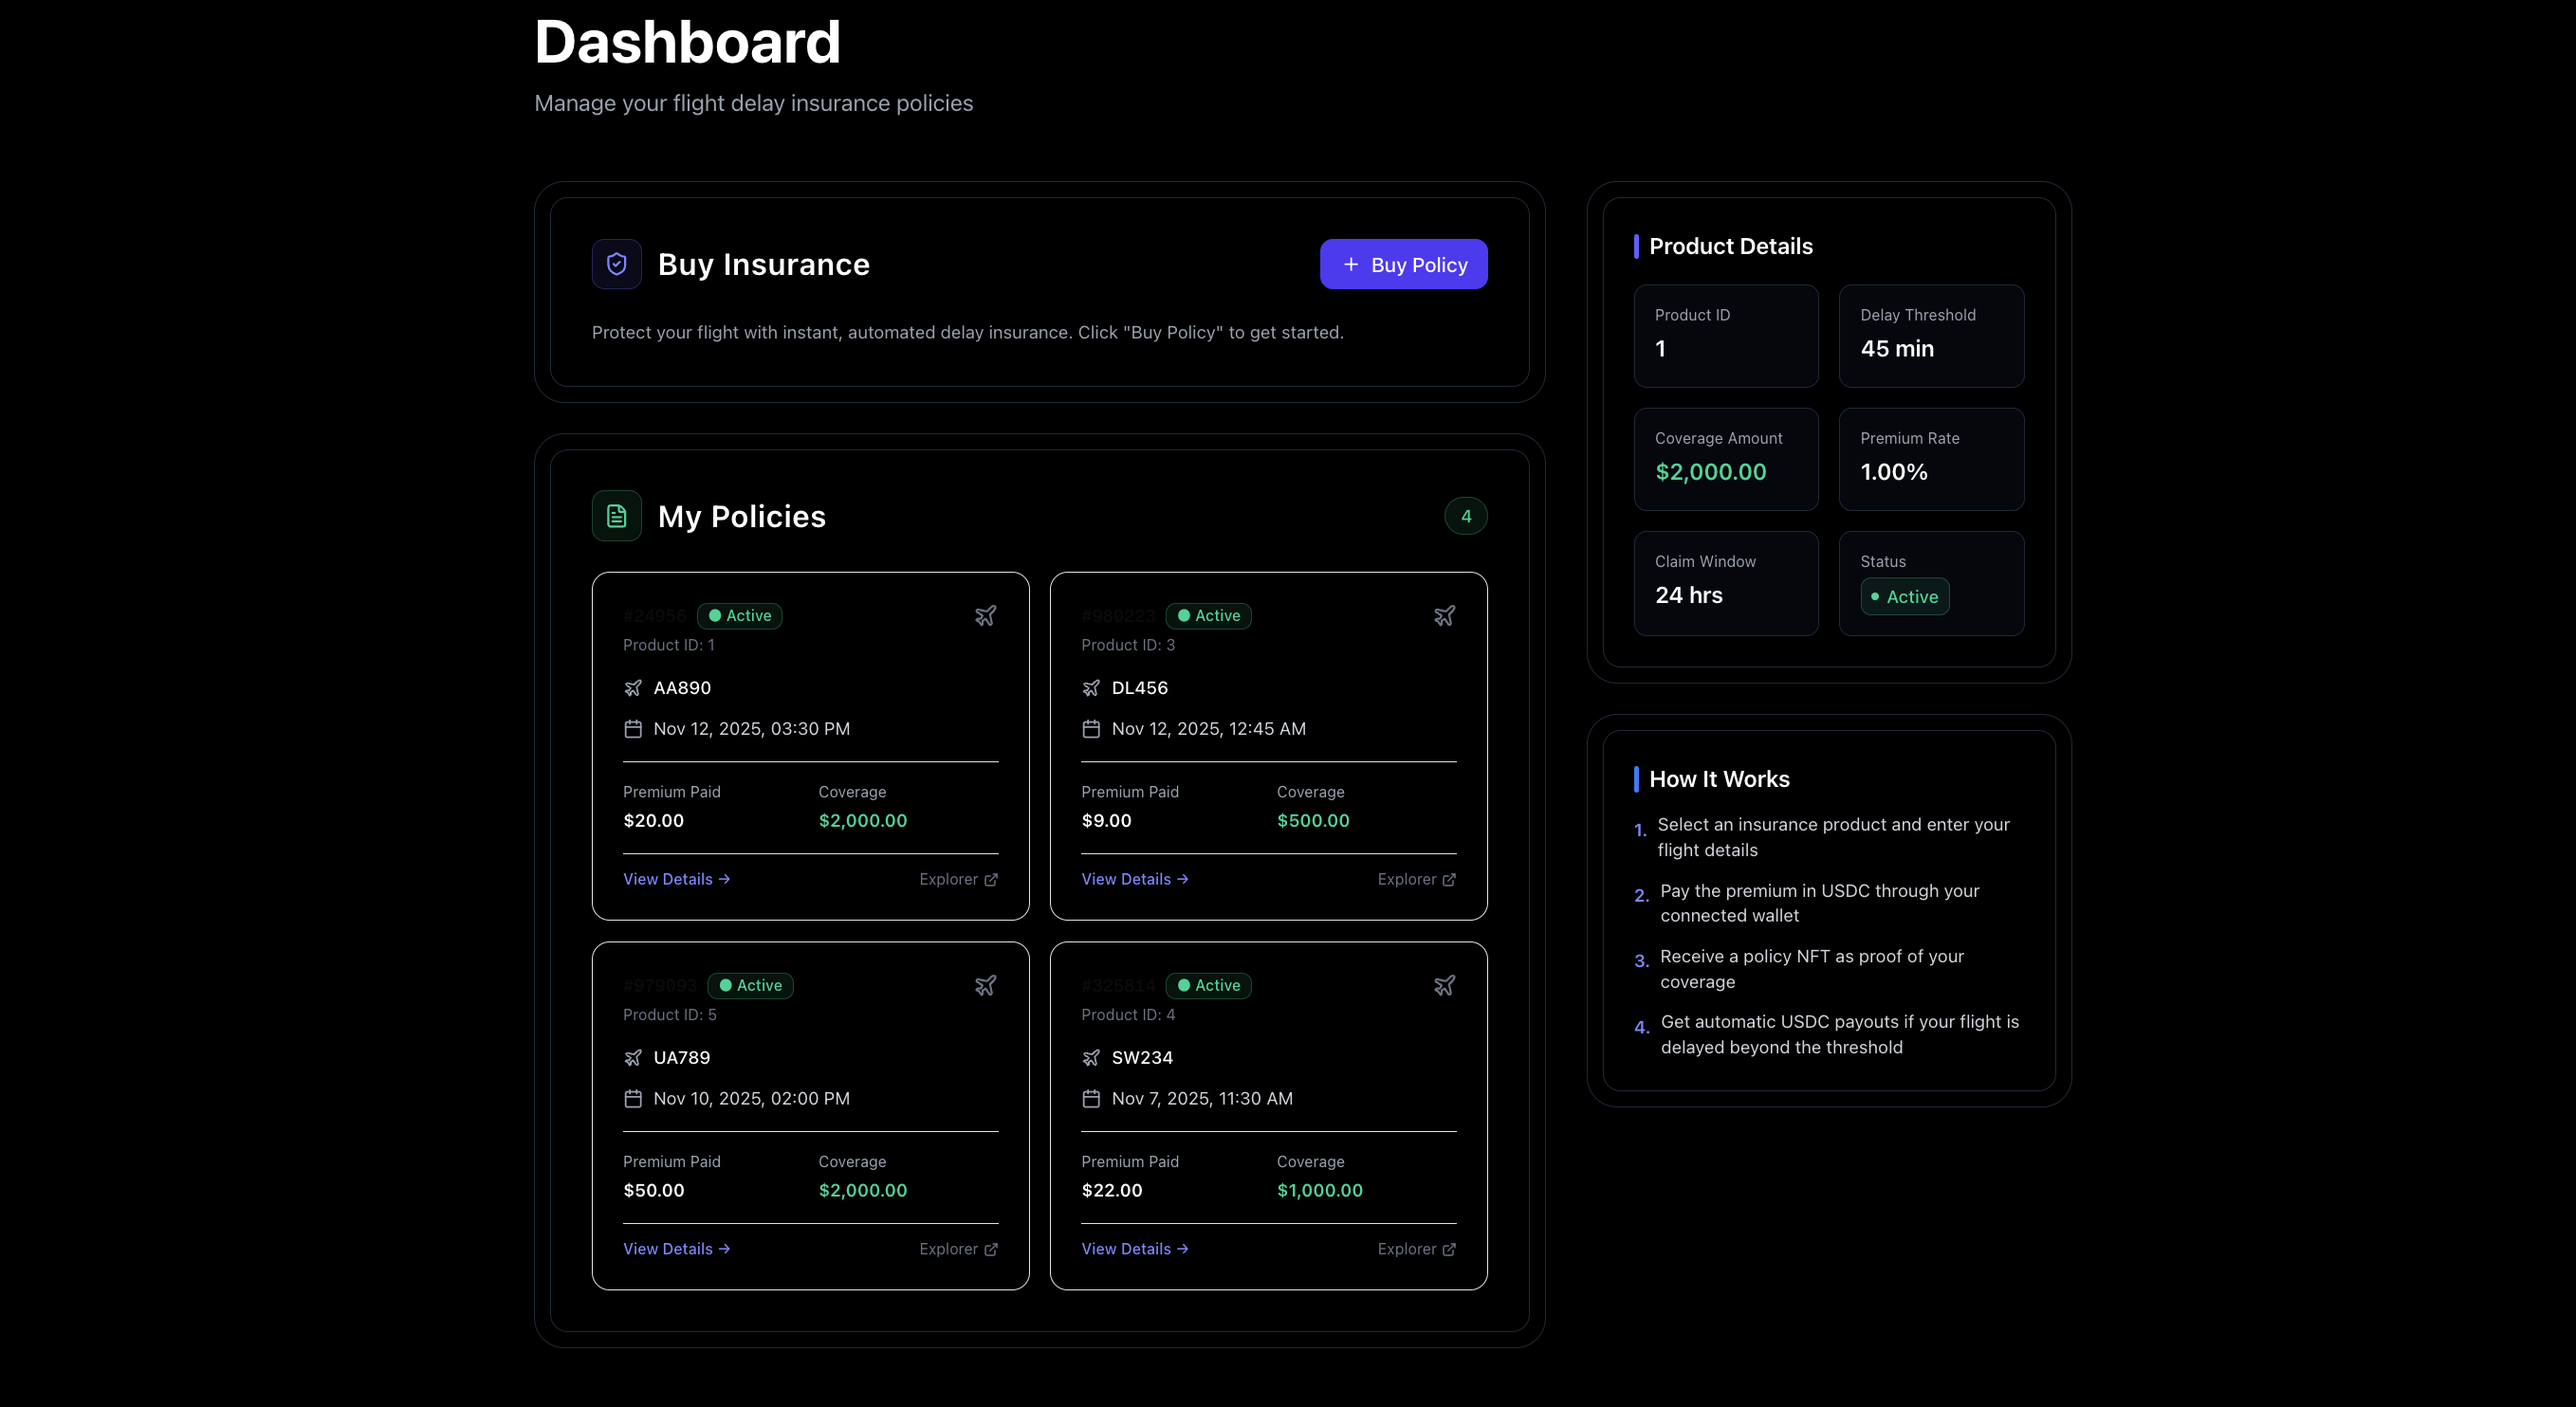
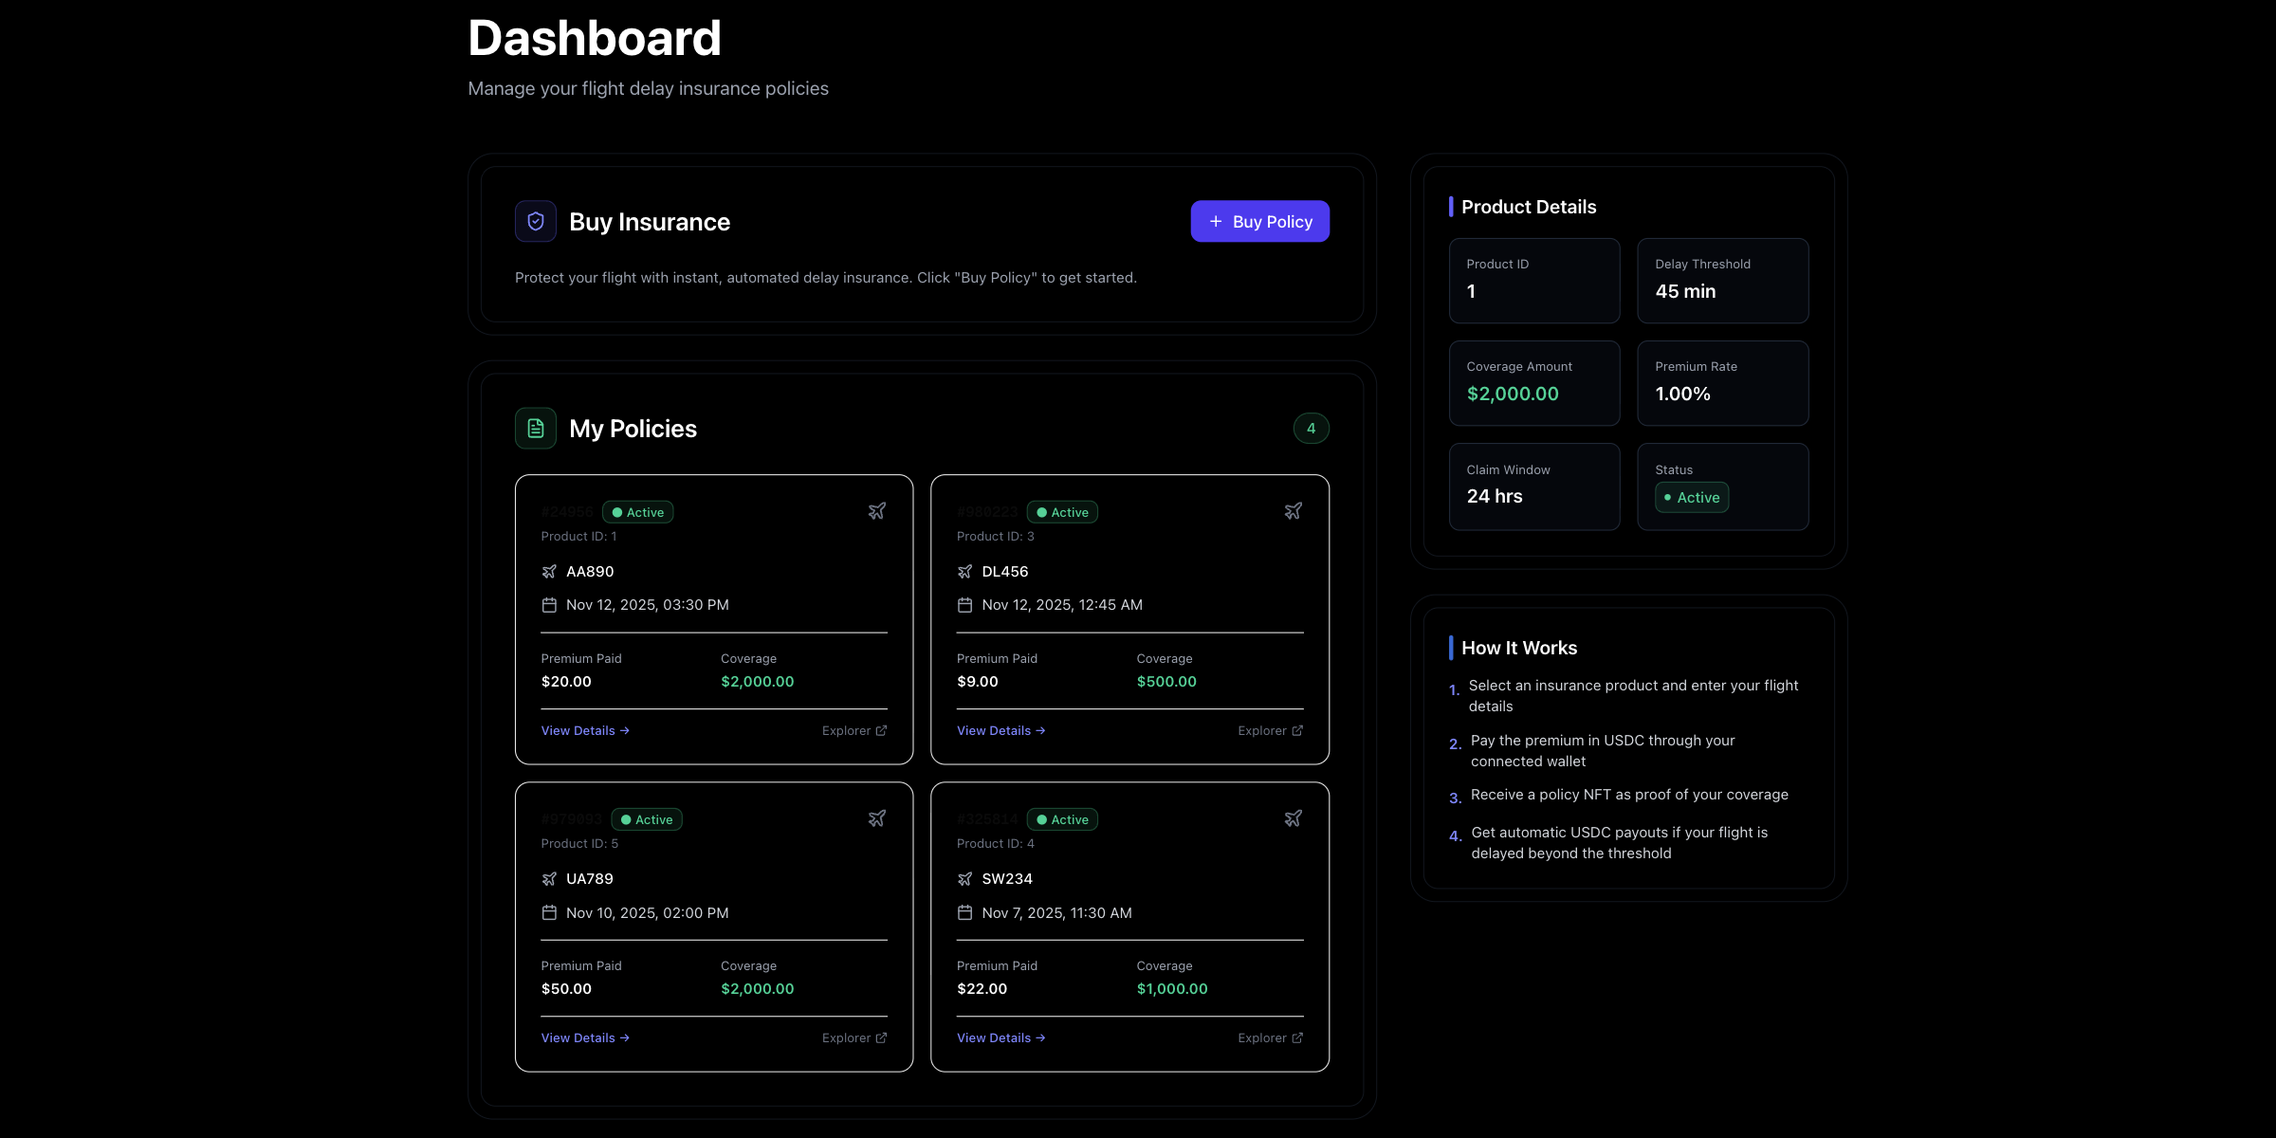
fix: Update dashboard preview image dimensions and adjust styling for improved layout on LandingPage

diff --git a/frontend/src/components/LandingPage.tsx b/frontend/src/components/LandingPage.tsx
@@ -103,8 +103,18 @@ const LandingPage = () => {
             texts={[
               "ZYURA",
               "Instant Payouts",
-              "Flight Delay Insurance",
-              "Solana Powered"
+              "Solana Powered",
+              "Smart Contracts",
+              "Oracle Verified",
+              "On-Chain",
+              "Transparent",
+              "Automated",
+              "Zero Hassle",
+              "USDC Payouts",
+              "NFT Policies",
+              "Trustless",
+              "Fair Coverage",
+              "Global Protection"
             ]}
             morphTime={3}
             cooldownTime={2}
@@ -157,14 +167,14 @@ const LandingPage = () => {
         >
           <div className="w-full h-full rounded-2xl overflow-hidden relative flex items-center justify-center border border-white/5 bg-gradient-to-br from-gray-900 via-black to-gray-900">
             <div className="absolute inset-0 bg-gradient-to-b from-transparent via-black/20 to-black/40 pointer-events-none" />
-            <div className="relative h-full w-full flex items-center justify-center px-4 py-6 md:px-8 md:py-10">
+            <div className="relative h-full w-full flex items-center justify-center">
               <Image
                 src="/dashboard-preview.png"
                 alt="ZYURA Dashboard preview"
-                width={1405}
-                height={768}
+                width={1232}
+                height={592}
                 priority
-                className="w-full h-auto max-h-full object-contain rounded-2xl border border-white/10 shadow-2xl shadow-indigo-500/20"
+                className="w-full h-full object-cover rounded-2xl"
               />
             </div>
           </div>
